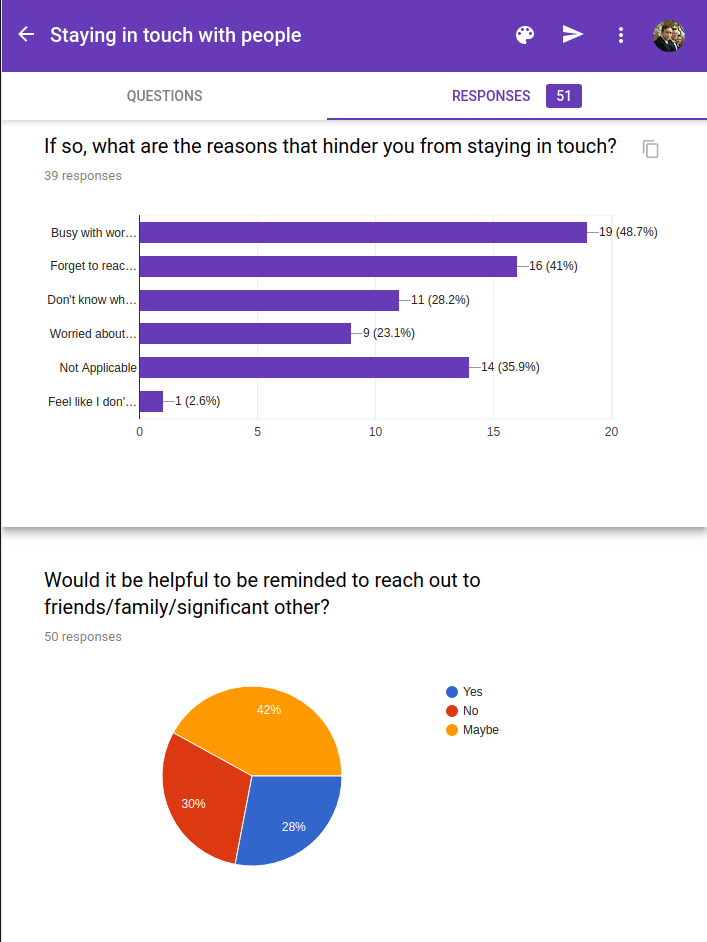
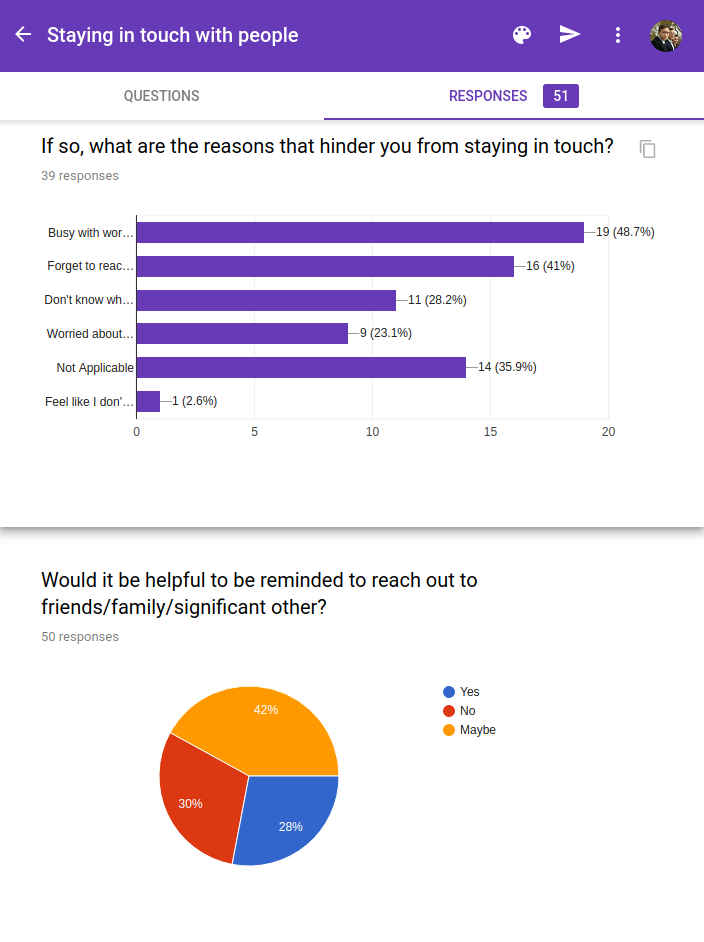
new stuff

diff --git a/angelicsoftware.html b/angelicsoftware.html
@@ -74,7 +74,7 @@
 
   <div class="container">
     <div class="row">
-      <div class="col-sm-8 col-sm-offset-2"><h1>Angelic Software</h1>
+      <div class="col-md-8 col-md-offset-2"><h1>Angelic Software</h1>
         <p>Social Interactions of the Future</p>
       </div>
     </div>
@@ -82,12 +82,12 @@
 
   <div class="container" style="padding-top:20px;">
       <div class="row">
-        <div class="col-sm-8 col-sm-offset-2 subheading2">
+        <div class="col-md-8 col-md-offset-2 subheading2">
           <h2>Redefining Your Relationships</h2>
         </div>
       </div>
       <div class="row">
-        <div class="col-sm-6 col-sm-offset-3">
+        <div class="col-md-6 col-md-offset-3">
           <p>Angelic Software is a small startup attempting to change the way
             people navigate social interaction.</p>
             <p>
@@ -96,19 +96,16 @@
              into the market receptivity of the product. I conducted 2 surveys and
              built prototypes on a weekly basis to be discussed and reviewed
              by the project lead and stakeholders.</p>
-             <p>During this project, I used <b>Google Forms</b> to conduct suveys, and <b>Adobe XD</b> and <b>Sketch</b> to build the artboards and
-               articulate the prototypes.</p>
-          <p>The content of this project is covered by a NDA, however, I would be
-            happy to talk through the process of research and design.</p>
+
         </div>
       </div>
       <div class="row">
-        <div class="col-sm-8 col-sm-offset-2 subheading2">
+        <div class="col-md-8 col-md-offset-2 subheading2">
           <h2>Product Hypothesis</h2>
         </div>
       </div>
       <div class="row">
-        <div class="col-sm-6 col-sm-offset-3">
+        <div class="col-md-6 col-md-offset-3">
           <p>This project started from the concept that we as people do not give
           as much time to the significant people in our lives as much as we should.
         Dead bedrooms arisen from having children or parents and grandparents forgotten
@@ -116,6 +113,7 @@
       where technology affords us instant gratification and distraction. Our
         team wanted to address this by using technology to improve our relationships with
         the people in our lives.</p>
+        <img src="./resources/Survey.png" width="100%" style="border:1px solid darkgrey" alt="survey_results">
         <p>To see if our theory that people have trouble maintaining relationships, we
           distributed a survey to friends, family, and Reddit. The results were conclusive:
           people have trouble staying in touch. Whether it be from being too busy, to
@@ -124,12 +122,12 @@
         </div>
       </div>
       <div class="row">
-        <div class="col-sm-8 col-sm-offset-2 subheading2">
+        <div class="col-md-8 col-md-offset-2 subheading2">
           <h2>Lean Product and MVP</h2>
         </div>
       </div>
       <div class="row">
-        <div class="col-sm-6 col-sm-offset-3">
+        <div class="col-md-6 col-md-offset-3">
           <p>With our mission goals defined, we needed to figure out what would be the
             quickest and simplist implimentation of what we were trying to acheive. Initial
             developer goals were crude, essentially building a conversational engine to
@@ -142,26 +140,32 @@
             canned conversation looks like, but I conceded to the data and we decided to maintain some generational
             features.
             </p>
+            <div><iframe src="https://drive.google.com/file/d/1Mvx43GcgBmug54IP3BuhalIWHnAQbQB6/preview" width="100%" height="480"></iframe>
+            <h5 class="text-center">First Edition Mockup</div>
             <p>For our MVP, we concluded that our MVP would consist of a relationship manager
               where the user can set interval reminders, take notes, and bookmark anniversaries and other
               special dates.</p>
       </div>
     </div>
     <div class="row">
-      <div class="col-sm-8 col-sm-offset-2 subheading2">
-        <h2>Priority and Precedent</h2>
+      <div class="col-md-8 col-md-offset-2 subheading2">
+        <h2>Priority and Prototypes</h2>
       </div>
     </div>
     <div class="row">
-      <div class="col-sm-6 col-sm-offset-3">
-        <p></p>
+      <div class="col-md-6 col-md-offset-3">
+
+        <p>After discussing the potential of our product, we decided that one of our
+        key features should be how we prioritize communications with people. For example,
+      we wanted to be able to ensure that we never miss a birthday or anniversary, so events of
+    that nature would be shuffled to the top, and then sorted by last message sent. Subsequent messages
+  would be sorted only by last message sent, in reverse chronological order(most recent at the bottom).</p>
+  <div><iframe src="https://drive.google.com/file/d/1MSH5spEQ6N14mKiWRo3BnoqvFtcv_S3H/preview" width="100%" height="480"></iframe><h5 class="text-center">Second Edition Prototype</h5></div>
+    <p>All mockups were produced with Sketch and prototyped in both Invision and Adobe XD. This project is currently on hiatus.</p>
     </div>
   </div>
 
 
-      <div class="row">
-
-      </div>
 
       <!-- Container End -->
     </div>
